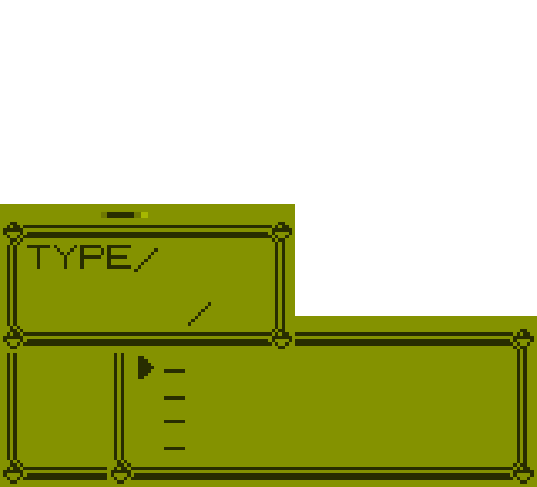
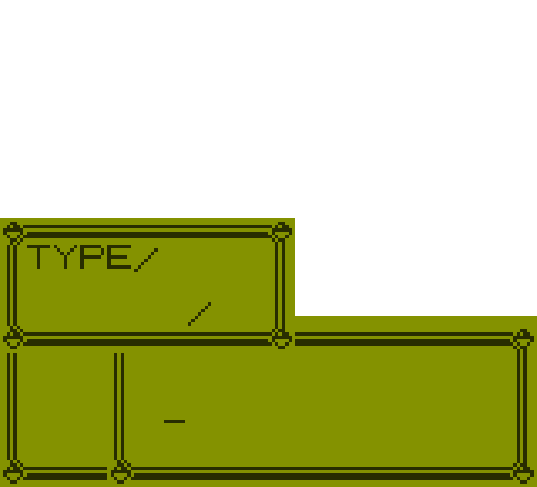
basic combat functionality with hit animations. Cursor bug was fixed.

diff --git a/js/script.js b/js/script.js
@@ -19,6 +19,7 @@ function initGame() {
 	enemyPokemon = enemyParty[0];
 
 	showPokemon();
+	addListeners();
 }
 
 function showPokemon(){
@@ -29,6 +30,8 @@ function showPokemon(){
 	document.getElementById('pkmn-name').textContent = enemyPokemon.pokename;
 	document.getElementById('pkmnback-maxhp').textContent = playerPokemon.maxhealth
 	document.getElementById('pkmnback-hp').textContent = playerPokemon.health
+	document.getElementById('attack1').textContent = playerPokemon.moves[0].name;
+	document.getElementById('attack2').textContent = playerPokemon.moves[1].name;
 }
 
 initGame();
@@ -41,46 +44,99 @@ function itemButton() {
 
 }
 
+function fightButton() {
+	document.getElementById('b2').src = "./assets/img/pkmnbattle2.png";
+	document.getElementById('attackcancel').style.zIndex = '1';
+	document.getElementById('attack1').style.zIndex = '1';
+	document.getElementById('attack2').style.zIndex = '1';
+}
+
+function pkmnButton() {
+
+}
+
+function cancelButton() {
+	document.getElementById('attackcancel').style.zIndex = '-1';
+	document.getElementById('attack1').style.zIndex = '-1';
+	document.getElementById('attack2').style.zIndex = '-1';
+	document.getElementById('b2').src = "";
+
+}
+
 function attack1() {
 	playerPokemon.attack(enemyPokemon, playerPokemon.moves[0]);
+	document.getElementById('attackcancel').style.zIndex = '-1';
+	document.getElementById('attack1').style.zIndex = '-1';
+	document.getElementById('attack2').style.zIndex = '-1';
+	document.getElementById('b2').src = "";
+	document.getElementById('pkmn').style.animation = 'blink 0.15s 5';
+	setTimeout(function() {
+		document.getElementById('pkmn').style.animation = '';
+	}, 1000);
 	//console.log('attacked with first attack');
 	//console.log(enemyPokemon.health);
 	enemyPokemon.faint(enemyPokemon, enemyParty);
-	setTimeout(enemyAttack, 1000);
+	removeListeners();
+	setTimeout(function() {
+		enemyAttack();
+		addListeners();
+	}, 1000);
+
 	showPokemon();
 }
 
 function attack2() {
 	playerPokemon.attack(enemyPokemon, playerPokemon.moves[1]);
+	document.getElementById('attackcancel').style.zIndex = '-1';
+	document.getElementById('attack1').style.zIndex = '-1';
+	document.getElementById('attack2').style.zIndex = '-1';
+	document.getElementById('b2').src = "";
+	document.getElementById('pkmn').style.animation = 'blink 0.15s 5';
+	setTimeout(function() {
+		document.getElementById('pkmn').style.animation = '';
+	}, 1000);
 	//console.log('attacked with 2nd attack');
 	console.log(enemyPokemon.health);
 	enemyPokemon.faint(enemyPokemon, enemyParty);
-	setTimeout(enemyAttack, 1000);
+	removeListeners();
+	setTimeout(function () {
+		enemyAttack();
+		addListeners();
+	}, 1000);
 	showPokemon();
 }
 
 function enemyAttack() {
 	var attackMove = Math.floor(Math.random() * enemyPokemon.moves.length);
-	//console.log('attacked with',enemyPokemon.moves[attackMove].name);
+	console.log('attacked with',enemyPokemon.moves[attackMove].name);
 	enemyPokemon.attack(playerPokemon,enemyPokemon.moves[attackMove]);
+	document.getElementById('pkmnback').style.animation = 'blink 0.15s 5';
+	setTimeout(function() {
+		document.getElementById('pkmnback').style.animation = '';
+	}, 1000)
 	//console.log(playerPokemon.health);
 	showPokemon();
 	playerPokemon.faint(playerPokemon, playerParty);
 }
 
-// // Set in way where this works for enemy
-// function rest() {
-// 	playerPokemon.incrementHealth(playerPokemon, playerPokemon.moves[1]);
-// 	console.log('healed');
-// 	console.log(playerPokemon.health);
-// }
+function addListeners() {
+	document.getElementById('fight').addEventListener('click', fightButton);
+	document.getElementById('attackcancel').addEventListener('click', cancelButton);
+	document.getElementById('attack1').addEventListener('click', attack1);
+	document.getElementById('attack2').addEventListener('click', attack2);
+	// document.getElementById('items').addEventListener('click', potion);
+}
+
+function removeListeners() {
+	document.getElementById('fight').removeEventListener('click', fightButton);
+	document.getElementById('attackcancel').removeEventListener('click', cancelButton);
+	document.getElementById('attack1').removeEventListener('click', attack1);
+	document.getElementById('attack2').removeEventListener('click', attack2);
+	// document.getElementById('items').removeEventListener('click', potion);
+}
 
 function endGame() {
 	console.log('game over');
 }
 
-document.getElementById('attack1').addEventListener('click', attack1);
 
-document.getElementById('attack2').addEventListener('click', attack2);
-
-document.getElementById('items').addEventListener('click', potion);

diff --git a/css/style.css b/css/style.css
@@ -3,14 +3,31 @@
 	src: url(../assets/fonts/pokemon-font.woff2) format('woff2');
 }
 
+@keyframes blink {
+    0% {
+        opacity:1;
+    }
+    50% {
+        opacity:0;
+    }
+    100% {
+        opacity:1;
+    }
+} 
+
 button:focus {
 	outline: none;
 }
 
-button:hover::before {
-	position: relative;
+.click:hover::before {
+	position: absolute;
 	content: url(../assets/img/pkmncursor.png);
-	left: -68px;
+	left: -22px;
+	top: 1px;
+}
+
+.hover:hover {
+	cursor: pointer;
 }
 
 #gameboy {
@@ -99,57 +116,24 @@ button:hover::before {
 
 #pkmnback {
 	position: absolute;
-	/*display: hidden;*/
 	left: 16px;
 	top: 152px;
 }
 
 #pkmn {
 	position: absolute;
-	/*display: hidden;*/
+	visibility: visible;
 	left: 355px;
 	top: 3px;
 }
 
 #b1 {
 	position: absolute;
-	/*display: none;*/
 }
 
 #b2 {
 	position: absolute;
-	display: none;
 	z-index: 1;
-}
-
-#b3 {
-	position: absolute;
-	display: none;
-	z-index: 1;
-}
-
-#b4 {
-	position: absolute;
-	display: none;
-	z-index: 1;
-}
-
-#attack1 {
-	position: absolute;
-	left: 200px;
-	top: 358px;
-	width: 300px;
-}
-
-#attack1:hover {
-	cursor: pointer;
-}
-
-#attack2 {
-	position: absolute;
-	left: 200px;
-	top: 388px;
-	width: 300px;
 }
 
 #fight {
@@ -164,21 +148,79 @@ button:hover::before {
     color: rgba(0,0,0,0);
 }
 
-#fight:hover {
-	cursor: pointer;
-}
-
 #items {
 	position: absolute;
 	left: 270px;
 	top: 432px;
-	width: 131px;
+	width: 102px;
 	height: 28px;
 	background: transparent;
 	border: none !important;
 	color: rgba(0,0,0,0);
 }
 
-#items:hover {
-	cursor: pointer;
+#pkmnbtn {
+	position: absolute;
+	left: 430px;
+	top: 378px;
+	width: 50px;
+	height: 28px;
+	background: transparent;
+	border: none !important;
+	color: rgba(0,0,0,0);
+}
+
+#run {
+	position: absolute;
+	left: 430px;
+	top: 432px;
+	width: 77px;
+	height: 28px;
+	background: transparent;
+	border: none !important;
+	color: rgba(0,0,0,0);
+}
+
+#attack1 {
+	position: absolute;
+	font-family: 'pokemon-font';
+	font-size: 25px;
+	left: 158px;
+	top: 342px;
+	width: 350px;
+	height: 28px;
+	background: transparent;
+	border: none !important;
+	color: #282d00;
+	z-index: -1;
+	text-align: left;
+}
+
+#attack2 {
+	position: absolute;
+	font-family: 'pokemon-font';
+	font-size: 25px;
+	left: 158px;
+	top: 372px;
+	width: 350px;
+	height: 28px;
+	background: transparent;
+	border: none !important;
+	color: #282d00;
+	z-index: -1;
+	text-align: left;
+}
+
+#attackcancel {
+	position: absolute;
+	font-family: 'pokemon-font';
+	font-size: 25px;
+	left: 158px;
+	top: 427px;
+	width: 77px;
+	height: 28px;
+	background: transparent;
+	border: none !important;
+	color: #282d00;
+	z-index: -1;
 }

diff --git a/index.html b/index.html
@@ -11,21 +11,24 @@
 			<div id="game-window">
 					<div id="battle">
 						<img id="b1" src="./assets/img/pkmnbattle1.png">
-						<img id="b2" src="./assets/img/pkmnbattle2.png">
-						<img id="b3" src="./assets/img/pkmnbattle3.png">
-						<img id="b4" src="./assets/img/pkmnbattle4.png">
+						<img id="b2" src="">
+						<!-- <img id="b3" src="./assets/img/pkmnbattle3.png"> -->
+						<!-- <img id="b4" src="./assets/img/pkmnbattle4.png"> -->
 						<img id="pkmnback" src="">
 						<img id="pkmn" src="">
-						<button id="pkmnback-name">Arbok</button>
-						<button id="pkmn-name">Blastoise</button>
+						<button id="pkmnback-name"></button>
+						<button id="pkmn-name"></button>
 						<button id="pkmnback-level">50</button>
 						<button id="pkmn-level">50</button>
 						<button id="pkmnback-maxhp">100</button>
 						<button id="pkmnback-hp">100</button>
-						<!-- <button id="attack1">Attack1</button> -->
-						<!-- <button id="attack2">Attack2</button> -->
-						<button id="fight">Fight</button>
-						<button id="items">Items</button>
+						<button id="attack1" class="click hover">Attack1</button>
+						<button id="attack2" class="click hover">Attack2</button>
+						<button id="fight" class="click hover">Fight</button>
+						<button id="items" class="click hover">Items</button>
+						<button id="pkmnbtn" class="click hover">PKMN</button>
+						<button id="run" class="click hover">Run</button>
+						<button id="attackcancel" class="click hover">CANCEL</button>
 					</div>
 			</div>
 	</div>	
